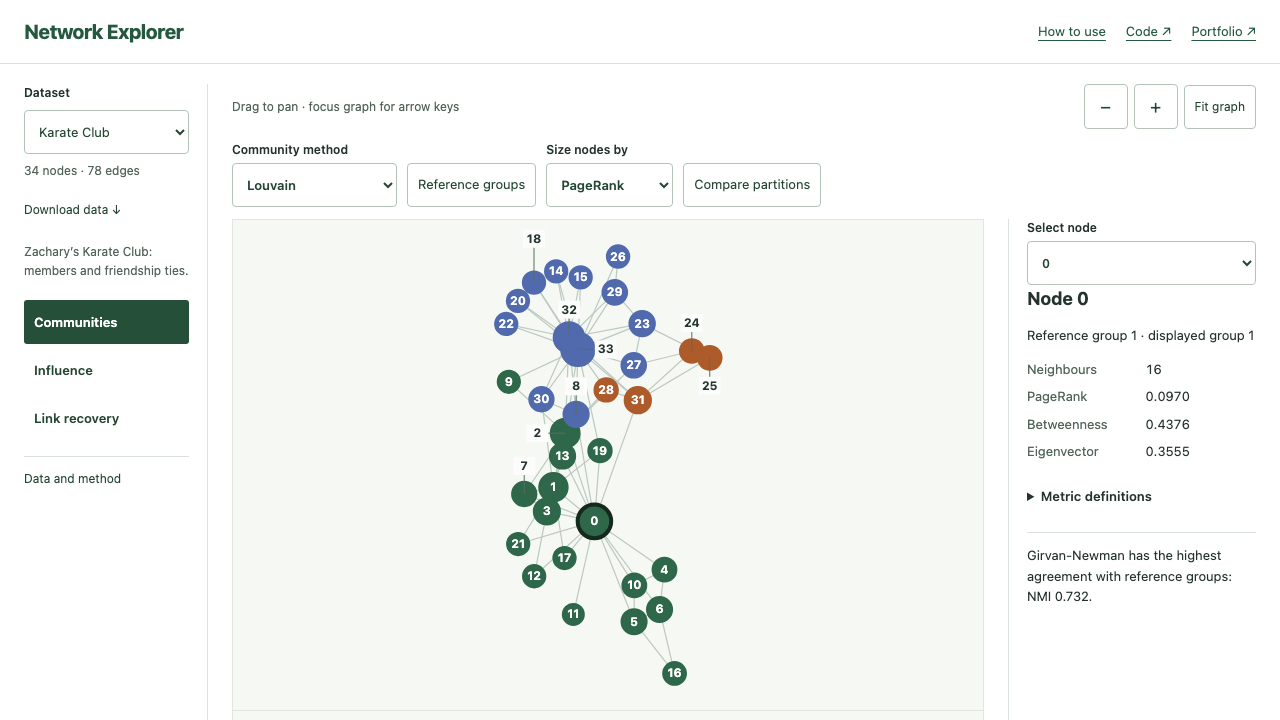
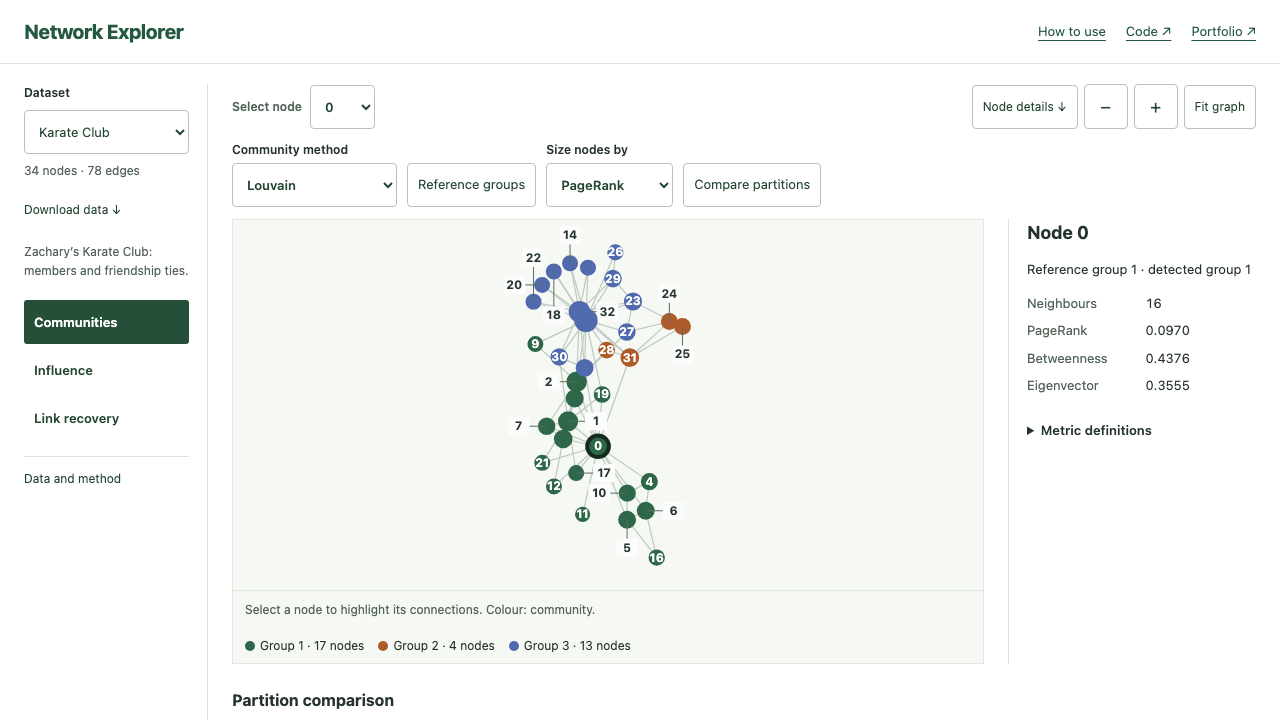
Clarify graph inspection and partition differences (#7)

diff --git a/script.js b/script.js
@@ -28,7 +28,7 @@ let bundle,
   strategy = "PageRank",
   frame = 0;
 let compare = false, comparisonMethod = "Reference groups", viewport = { zoom: 1, x: 0, y: 0 };
-let suppressClick = false;
+let suppressClick = false, showDifferences = false, disagreements = new Set();
 function validate(value) {
   if (
     value.schemaVersion !== 1 ||
@@ -61,7 +61,7 @@ function graph(partition, active = null, seeds = [], split = null, colourMap = n
   const small = matchMedia("(max-width: 999px)").matches;
   const available = $("#workspace").clientWidth;
   const width = Math.max(280, comparison && !small ? (available - 16) / 2 : available - (small ? 0 : 272));
-  const height = small ? 350 : Math.max(420, innerHeight - 230), padding = 36;
+  const height = small ? 350 : Math.max(280, innerHeight - (comparison ? 440 : view === "influence" ? 380 : view === "links" ? 300 : 350)), padding = 32;
   const xs = data.nodes.map(n => n.x), ys = data.nodes.map(n => n.y);
   const minX = Math.min(...xs), maxX = Math.max(...xs), minY = Math.min(...ys), maxY = Math.max(...ys);
   const scale = Math.min((width-2*padding)/Math.max(.01,maxX-minX),(height-2*padding)/Math.max(.01,maxY-minY));
@@ -97,24 +97,25 @@ function graph(partition, active = null, seeds = [], split = null, colourMap = n
   }
   const coloursFor = group => colors[(colourMap?.[group] ?? group) % colors.length];
   const nodes = data.nodes.map((n) => {
-    const p = pos(n), group = partition[n.id] ?? n.reference, r = 8 + Math.sqrt(n[size] / max) * 9;
+    const p = pos(n), group = partition[n.id] ?? n.reference, r = 5 + Math.sqrt(n[size] / max) * 6;
     const label = labels.get(n.id), [dx,dy] = label || [0,0];
     const colour = coloursFor(group);
     const moved = dx !== 0 || dy !== 0;
     const on = active === null || active.has(n.id), related = n.id === selected || neighbours.has(n.id);
-    return `<g class="node" role="button" tabindex="0" data-node="${n.id}" data-pane="${pane}" data-related="${related}" aria-label="Inspect node ${n.id}, group ${group + 1}, ${n.degree_count} neighbours" aria-pressed="${n.id === selected}" opacity="${emphasize && !related ? .35 : 1}"><circle cx="${p.x}" cy="${p.y}" r="${r}" fill="${on ? colour : "#fff"}" stroke="${n.id === selected ? "#152a1c" : colour}" stroke-width="${n.id === selected ? 4 : 1.5}"/>${label && moved ? `<line x1="${p.x}" y1="${p.y}" x2="${p.x+dx}" y2="${p.y+dy}" stroke="#586d60"/><rect x="${p.x+dx-11}" y="${p.y+dy-9}" width="22" height="18" fill="#fbfcfb"/>` : ""}${label ? `<text x="${p.x+dx}" y="${p.y+dy + 4}" text-anchor="middle" font-size="12" font-weight="700" fill="${on && !moved ? "#fff" : "#24362d"}">${n.id}</text>` : ""}${seeds.includes(n.id) ? `<circle cx="${p.x}" cy="${p.y}" r="${r + 5}" fill="none" stroke="#1d3927" stroke-dasharray="3 2"/>` : ""}</g>`;
+    return `<g class="node" role="button" tabindex="${n.id === selected ? 0 : -1}" data-node="${n.id}" data-pane="${pane}" data-related="${related}" data-disagreement="${comparison && disagreements.has(n.id)}" aria-label="Inspect node ${n.id}, group ${group + 1}, ${n.degree_count} neighbours" aria-pressed="${n.id === selected}" opacity="${comparison && showDifferences && n.id !== selected && !disagreements.has(n.id) ? .25 : emphasize && !related ? .35 : 1}"><circle class="node-body" cx="${p.x}" cy="${p.y}" r="${r}" fill="${on ? colour : "#fff"}" stroke="${n.id === selected ? "#152a1c" : colour}" stroke-width="${n.id === selected ? 4 : 1.5}"/>${comparison && showDifferences && disagreements.has(n.id) ? `<circle cx="${p.x}" cy="${p.y}" r="${r+4}" fill="none" stroke="#172d20" stroke-width="2" stroke-dasharray="3 2" pointer-events="none"/>` : ""}<circle class="node-hit" cx="${p.x}" cy="${p.y}" r="${Math.max(12,r)}" fill="transparent" stroke="none"/>${label && moved ? `<line x1="${p.x}" y1="${p.y}" x2="${p.x+dx}" y2="${p.y+dy}" stroke="#586d60"/><rect x="${p.x+dx-11}" y="${p.y+dy-9}" width="22" height="18" fill="#fbfcfb"/>` : ""}${label ? `<text x="${p.x+dx}" y="${p.y+dy + 4}" text-anchor="middle" font-size="12" font-weight="700" fill="${on && !moved ? "#fff" : "#24362d"}">${n.id}</text>` : ""}${seeds.includes(n.id) ? `<circle cx="${p.x}" cy="${p.y}" r="${r + 5}" fill="none" stroke="#1d3927" stroke-dasharray="3 2"/>` : ""}</g>`;
   }).join("");
   const caption = split ? `${revealLinks ? "Dashed orange: withheld links." : "Withheld links are hidden."} Dotted blue: a pair with no recorded link.` : active ? "Filled nodes are active; dashed rings identify seeds." : highlight ? `Node ${selected} and its neighbours are highlighted. Colour: community.` : "Select a node to highlight its connections. Colour: community.";
   const transform = `translate(${width/2+viewport.x*width} ${height/2+viewport.y*height}) scale(${viewport.zoom}) translate(${-width/2} ${-height/2})`;
-  return `<figure class="plot"><svg class="graph-canvas" viewBox="0 0 ${width} ${height}" data-pane="${pane}" data-viewport="${JSON.stringify(viewport).replaceAll('"','&quot;')}" tabindex="0" aria-label="${data.name} graph, select a numbered node to inspect its position. Arrow keys pan; plus and minus zoom; Home fits the graph." role="group"><g class="graph-geometry" transform="${transform}">${edges}${nodes}</g></svg><figcaption>${caption}</figcaption></figure>`;
+  return `<figure class="plot"><svg class="graph-canvas" style="height:${height}px" viewBox="0 0 ${width} ${height}" data-pane="${pane}" data-viewport="${JSON.stringify(viewport).replaceAll('"','&quot;')}" tabindex="-1" aria-label="${data.name} graph. Arrow keys move between nodes; Shift and arrow keys pan; plus and minus zoom; Home fits the graph." role="group"><g class="graph-geometry" transform="${transform}">${edges}${nodes}</g></svg><figcaption>${caption}</figcaption>${view === "groups" ? groupLegend(partition,colourMap) : ""}</figure>`;
 
+}
+function groupLegend(partition, colourMap) {
+  const groups=[...new Set(Object.values(partition))].sort((a,b)=>a-b);
+  return `<div class="group-legend" aria-label="Community colour key">${groups.map(group=>`<span><i style="background:${colors[(colourMap?.[group] ?? group)%colors.length]}"></i>Group ${group+1} · ${Object.values(partition).filter(value=>value===group).length} nodes</span>`).join("")}</div>`;
 }
 function details(partition) {
   const n = data.nodes.find((n) => n.id === selected) ?? data.nodes[0];
-  return `<label>Select node<select id="node-picker">${options(
-    data.nodes.map((n) => n.id),
-    selected,
-  )}</select></label><h2>Node ${n.id}</h2><p>Reference group ${n.reference + 1} · ${view === "groups" ? `displayed group ${(partition[n.id] ?? n.reference) + 1}` : view === "links" ? "metrics below describe the original graph" : "inspect an activated node or a seed"}</p><dl><dt>Neighbours</dt><dd>${n.degree_count}</dd><dt>PageRank</dt><dd>${fmt(n.pagerank, 4)}</dd><dt>Betweenness</dt><dd>${fmt(n.betweenness, 4)}</dd><dt>Eigenvector</dt><dd>${fmt(n.eigenvector, 4)}</dd></dl><details><summary>Metric definitions</summary><p class="muted">Degree counts immediate neighbours. PageRank rewards links from well-connected nodes. Betweenness measures how often a node lies on shortest paths. </p></details>`;
+  return `<h2 id="node-details" tabindex="-1">Node ${n.id}</h2><p>Reference group ${n.reference + 1} · ${view === "groups" ? `detected group ${(partition[n.id] ?? n.reference) + 1}` : view === "links" ? "metrics below describe the original graph" : "inspect an activated node or a seed"}</p><dl><dt>Neighbours</dt><dd>${n.degree_count}</dd><dt>PageRank</dt><dd>${fmt(n.pagerank, 4)}</dd><dt>Betweenness</dt><dd>${fmt(n.betweenness, 4)}</dd><dt>Eigenvector</dt><dd>${fmt(n.eigenvector, 4)}</dd></dl><details><summary>Metric definitions</summary><p class="muted">Degree counts immediate neighbours. PageRank rewards links from well-connected nodes. Betweenness measures how often a node lies on shortest paths. </p></details>`;
 }
 function render() {
   if (!data) return;
@@ -136,8 +137,9 @@ function render() {
     const best = [...data.communities].sort((a, b) => b.nmi - a.nmi)[0];
     const other = comparisonMethod === "Reference groups" ? Object.fromEntries(data.nodes.map(n=>[n.id,n.reference])) : data.communities.find(c=>c.method===comparisonMethod).partition;
     const colourMap = alignPartitionColours(partition, other);
+    disagreements = new Set(data.nodes.filter(n => partition[n.id] !== colourMap[other[n.id]]).map(n=>n.id));
     const controls = `<div class="controls"><label>Community method<select id="method" ${reference ? "disabled" : ""}>${options(data.communities.map((c) => c.method), method)}</select></label><button id="reference" aria-pressed="${reference}">Reference groups</button><label>Size nodes by<select id="size">${[["pagerank","PageRank"],["degree","Connections"],["betweenness","Betweenness"]].map(([v,label]) => `<option value="${v}" ${size === v ? "selected" : ""}>${label}</option>`).join("")}</select></label><button id="compare" aria-pressed="${compare}">Compare partitions</button></div>`;
-    content = `${controls}${compare ? `<div class="partition-panes"><section><h2>${reference ? "Reference groups" : method}</h2>${graph(partition)}</section><section><label>Compare with<select id="compare-method">${options(["Reference groups",...data.communities.map(c=>c.method)],comparisonMethod)}</select></label>${graph(other,null,[],null,colourMap,"comparison")}</section></div><aside class="shared-inspector">${details(partition)}<p>Colours are aligned by shared members. Group labels and scores are unchanged.</p></aside>` : `<div class="experiment"><section>${graph(partition)}${highlight ? `<button class="clear-selection" id="show-all">Show all connections</button>` : ""}</section><aside>${details(partition)}<p class="observation">${best.method} has the highest agreement with reference groups: NMI ${fmt(best.nmi)}.</p></aside></div>`}<h3>Partition comparison</h3>${table(
+    content = `${controls}${compare ? `<div class="comparison-reading"><span>${new Set(Object.values(partition)).size} groups vs ${new Set(Object.values(other)).size} · ${disagreements.size} nodes differ after matching group colours.</span><button id="differences" aria-pressed="${showDifferences}">Highlight differences</button></div>` : ""}${compare ? `<div class="partition-panes"><section><h2>${reference ? "Reference groups" : method}</h2>${graph(partition)}</section><section><label>Compare with<select id="compare-method">${options(["Reference groups",...data.communities.map(c=>c.method)],comparisonMethod)}</select></label>${graph(other,null,[],null,colourMap,"comparison")}</section></div><aside class="shared-inspector">${details(partition)}<p>Colours are aligned by shared members. Group labels and scores are unchanged.</p></aside>` : `<div class="experiment"><section>${graph(partition)}${highlight ? `<button class="clear-selection" id="show-all">Show all connections</button>` : ""}</section><aside>${details(partition)}</aside></div>`}<h3>Partition comparison</h3><p class="observation">${best.method} has the highest agreement with reference groups: NMI ${fmt(best.nmi)}. Agreement and modularity measure different things.</p>${table(
       ["Method", "Groups", "Modularity", "NMI ↑", "Adjusted Rand ↑"],
       data.communities.map((c) => [
         `<span ${c.method === method && !reference ? 'class="chosen-method"' : ""}>${c.method}${c.method === method && !reference ? " · selected" : ""}</span>`,
@@ -210,7 +212,9 @@ function render() {
       ]),
     )}</details>`;
   }
-  $("#workspace").innerHTML = `<div class="viewport-controls"><span>Drag to pan · focus graph for arrow keys</span><button id="zoom-out" aria-label="Zoom out">−</button><button id="zoom-in" aria-label="Zoom in">+</button><button id="fit-graph">Fit graph</button></div>` + content;
+  $("#workspace").innerHTML = `<div class="viewport-controls"><label class="node-navigation"><span>Select node</span><select id="node-picker">${options(data.nodes.map(n=>n.id),selected)}</select></label><button id="inspect-selected">Node details ↓</button><button id="zoom-out" aria-label="Zoom out">−</button><button id="zoom-in" aria-label="Zoom in">+</button><button id="fit-graph">Fit graph</button></div>` + content;
+  $("#inspect-selected").onclick=()=>{ $("#node-details").focus(); $("#node-details").scrollIntoView({block:"nearest"}); };
+  if($("#differences")) $("#differences").onclick=()=>{showDifferences=!showDifferences;render();$("#differences").focus({preventScroll:true});};
   document.querySelectorAll("[data-node]").forEach((el) => {
     const choose = () => {
       if(suppressClick) return;
@@ -222,6 +226,23 @@ function render() {
     };
     el.onclick = choose;
     el.onkeydown = (e) => {
+      if (!e.shiftKey && ["ArrowLeft","ArrowRight","ArrowUp","ArrowDown"].includes(e.key)) {
+        e.preventDefault(); e.stopPropagation();
+        const origin=data.nodes.find(n=>n.id===Number(el.dataset.node));
+        const horizontal=["ArrowLeft","ArrowRight"].includes(e.key), sign=["ArrowLeft","ArrowUp"].includes(e.key)?-1:1;
+        const candidates=data.nodes.filter(n=>n.id!==origin.id).map(n=>{
+          const dx=n.x-origin.x,dy=n.y-origin.y,forward=(horizontal?dx:dy)*sign,cross=horizontal?dy:dx;
+          return {n,forward,distance:Math.hypot(dx,dy)+Math.abs(cross)*2};
+        }).filter(n=>n.forward>0).sort((a,b)=>a.distance-b.distance);
+        if(candidates.length) {
+          const pane=el.dataset.pane;
+          selected=candidates[0].n.id;highlight=true;render();
+          const target=document.querySelector(`[data-node="${selected}"][data-pane="${pane}"]`);
+          keepNodeVisible(target);
+          target?.focus({preventScroll:true});
+        }
+        return;
+      }
       if (e.key === "Enter" || e.key === " ") {
         e.preventDefault();
         choose();
@@ -254,6 +275,7 @@ function render() {
       el.onchange = () => {
         update(el.value);
         render();
+        if (id === "node-picker") keepNodeVisible(document.querySelector(`.graph-canvas[data-pane="primary"] [data-node="${selected}"]`));
         $(`#${id}`).focus();
       };
   }
@@ -354,6 +376,15 @@ function applyViewport() {
     svg.querySelector(".graph-geometry").setAttribute("transform",`translate(${width/2+viewport.x*width} ${height/2+viewport.y*height}) scale(${viewport.zoom}) translate(${-width/2} ${-height/2})`);
   });
 }
+function keepNodeVisible(node) {
+  if (!node) return;
+  const canvas = node.closest(".graph-canvas").getBoundingClientRect();
+  const marker = node.querySelector(".node-body").getBoundingClientRect();
+  const shift = (start, end, low, high) => start < low + 20 ? low + 20 - start : end > high - 20 ? high - 20 - end : 0;
+  viewport.x += shift(marker.left, marker.right, canvas.left, canvas.right) / canvas.width;
+  viewport.y += shift(marker.top, marker.bottom, canvas.top, canvas.bottom) / canvas.height;
+  applyViewport();
+}
 function zoom(factor) { viewport.zoom=Math.max(.5,Math.min(4,viewport.zoom*factor)); applyViewport(); }
 function wireViewport() {
   $("#zoom-in").onclick=()=>zoom(1.25);
@@ -362,7 +393,7 @@ function wireViewport() {
   document.querySelectorAll(".graph-canvas").forEach(svg=>{
     let drag=null;
     svg.onkeydown=e=>{
-      if(e.target!==svg) return;
+      if(e.target!==svg && !e.shiftKey && !["Home","+","=","-"].includes(e.key)) return;
       if(!["ArrowLeft","ArrowRight","ArrowUp","ArrowDown","+","=","-","Home"].includes(e.key)) return;
       e.preventDefault();
       if(e.key==="Home") viewport={zoom:1,x:0,y:0};

diff --git a/tests/browser/explorer.spec.js b/tests/browser/explorer.spec.js
@@ -184,3 +184,39 @@ test('partition comparison synchronizes coordinates, pan, selection and keyboard
   const waiting=page.waitForEvent('download');await page.getByRole('button',{name:'Download data'}).click();
   const d=await waiting;expect(JSON.parse(fs.readFileSync(await d.path(),'utf8')).experiments[0]).toEqual(bundle.experiments[0]);
 });
+
+
+test('one graph Tab stop supports directional inspection and explicit partition differences',async({page})=>{
+ await page.goto('/');await page.locator('.node[tabindex="0"]').waitFor();
+ await expect(page.locator('.node[tabindex="0"]')).toHaveCount(1);
+ await page.locator('.node[tabindex="0"]').focus();await page.keyboard.press('ArrowRight');
+ await expect(page.getByRole('combobox',{name:'Select node',exact:true})).not.toHaveValue('0');
+ await expect(page.locator('.node[tabindex="0"]')).toBeFocused();
+ const selected=await page.getByRole('combobox',{name:'Select node',exact:true}).inputValue();
+ await page.getByRole('button',{name:'Compare partitions',exact:true}).click();
+ await expect(page.locator('.node[tabindex="0"]')).toHaveCount(2);
+ await page.getByRole('button',{name:'Highlight differences',exact:true}).click();
+ const primary=page.locator('.graph-canvas[data-pane="primary"]');
+ const expected=await primary.locator('[data-disagreement="true"]').count();
+ await expect(page.locator('.comparison-reading')).toContainText(`${expected} nodes differ`);
+ await expect(page.getByRole('combobox',{name:'Select node',exact:true})).toHaveValue(selected);
+ await page.getByRole('button',{name:'Node details'}).click();
+ await expect(page.getByRole('heading',{name:`Node ${selected}`,exact:true})).toBeFocused();
+ await expect(page.locator('.group-legend').first()).toContainText('Group 1');
+});
+
+test('desktop influence action stays beside its visible graph',async({page})=>{
+ await page.setViewportSize({width:1280,height:720});await page.goto('/');
+ await page.getByRole('button',{name:'Influence',exact:true}).click();
+ await expect(page.getByRole('button',{name:'Next wave'})).toBeInViewport();
+});
+
+
+test('keyboard selection pans only enough to keep a zoomed node visible',async({page})=>{
+ await page.goto('/');const canvas=page.locator('.graph-canvas');await canvas.waitFor();
+ for(let i=0;i<4;i++) await page.getByRole('button',{name:'Zoom in',exact:true}).click();
+ await page.getByRole('combobox',{name:'Select node',exact:true}).selectOption('14');
+ const box=await canvas.boundingBox(),marker=await page.locator('[data-node="14"] .node-body').boundingBox();
+ expect(marker.x).toBeGreaterThanOrEqual(box.x);expect(marker.x+marker.width).toBeLessThanOrEqual(box.x+box.width);
+ expect(marker.y).toBeGreaterThanOrEqual(box.y);expect(marker.y+marker.height).toBeLessThanOrEqual(box.y+box.height);
+});

diff --git a/styles.css b/styles.css
@@ -46,12 +46,12 @@ aside p { font-size:13px; }
 .experiment aside select { width:100%; }
 figure { margin:0; }
 .plot { background:#f5f8f3; border:1px solid #e1e7df; overflow:hidden; }
-.plot svg { display:block; width:100%; height:max(420px,calc(100svh - 230px)); touch-action:pan-y; cursor:grab; }
+.plot svg { display:block; width:100%; height:auto; touch-action:pan-y; cursor:grab; }
 .plot svg:active { cursor:grabbing; }
 .plot figcaption { padding:10px 12px; font-size:12px; border-top:1px solid #dfe7db; color:#526453; }
 .plot + .controls { border-bottom:1px solid var(--line); padding:12px 0; margin-bottom:0; }
 .node { cursor:pointer; outline:none; }
-.node:focus circle,.node:hover circle { stroke:#0f271b; stroke-width:4px; }
+.node:focus .node-body,.node:hover .node-body { stroke:#0f271b; stroke-width:4px; }
 .node:focus,.node:hover { opacity:1; }
 .node text { pointer-events:none; }
 .partition-panes { display:grid; grid-template-columns:1fr 1fr; gap:16px; }
@@ -105,7 +105,7 @@ footer { border-top:1px solid var(--line); margin:24px 0; padding-top:14px; font
  #method-link { display:none; }
  .experiment { grid-template-columns:1fr; gap:12px; }
  .experiment>aside { border:0; padding:12px 0; }
- .plot svg { height:350px; }
+ .plot svg { min-height:350px; }
  .partition-panes { grid-template-columns:1fr; }
  .shared-inspector { grid-template-columns:1fr 1fr; }
 }
@@ -128,3 +128,22 @@ footer { border-top:1px solid var(--line); margin:24px 0; padding-top:14px; font
  .bar-row { grid-template-columns:100px 1fr 64px; gap:8px; font-size:12px; }
 }
 @media(prefers-reduced-motion:reduce) { * { scroll-behavior:auto!important; } }
+
+.node-navigation { display:flex; flex-direction:row; align-items:center; gap:8px; margin-right:auto; }
+.node-navigation select { min-width:65px; font-size:13px; }
+.viewport-controls .node-navigation span { margin:0; }
+.group-legend { display:flex; flex-wrap:wrap; gap:6px 14px; padding:8px 12px; font-size:12px; }
+.group-legend span { display:inline-flex; align-items:center; gap:5px; }
+.group-legend i { width:10px; height:10px; border-radius:50%; }
+.comparison-reading { display:flex; flex-wrap:wrap; align-items:center; justify-content:space-between; gap:8px; font-size:13px; margin:8px 0; }
+.comparison-reading button { font-size:12px; }
+.node-hit { stroke:none!important; }
+#node-details:focus { outline-offset:4px; }
+@media(max-width:600px) {
+ .viewport-controls { flex-wrap:wrap; }
+ .node-navigation { gap:4px; }
+ .node-navigation span { position:absolute; width:1px; height:1px; overflow:hidden; clip:rect(0,0,0,0); }
+ #inspect-selected { padding-inline:6px; }
+ .viewport-controls button { flex-shrink:0; }
+ .comparison-reading { align-items:start; }
+}

diff --git a/index.html b/index.html
@@ -55,7 +55,7 @@
 <p>Each node is a member and each line is a recorded friendship. Colours show a community assignment. Selecting a node keeps its immediate neighbourhood in view.</p>
 <ol class="guide-steps">
 <li><strong>Select a member.</strong> Click a numbered node or use Select node. Compare its connections with the different importance measures.</li>
-<li><strong>Compare groups.</strong> Choose a community method and use Compare partitions to place it beside reference groups or another method. Zoom and selection stay synchronized; Fit graph restores the view.</li>
+<li><strong>Compare groups.</strong> Choose a community method and use Compare partitions to place it beside reference groups or another method. Zoom and selection stay synchronized; Fit graph restores the view. On a focused node, arrow keys move between nodes; Shift + arrow keys pan.</li>
 <li><strong>Try a harder graph.</strong> Switch from strongly to weakly separated groups. Check whether the method still agrees with the known groups.</li>
 </ol>
 <p>Influence replays simulated spread from chosen seeds. Link recovery hides real connections and compares methods at finding them again. Its graph shows one saved split; the scores cover twenty.</p>

diff --git a/README.md b/README.md
@@ -8,12 +8,12 @@
 
 ## Walkthrough
 
-1. Use **Compare partitions** to inspect the Karate Club reference groups beside a community algorithm. Both panes share coordinates, pan/zoom and node selection.
+1. Use **Compare partitions** to inspect the Karate Club reference groups beside a community algorithm. Both panes share coordinates, pan/zoom and node selection. **Highlight differences** marks nodes assigned differently after matching group colours.
 2. Switch to strong or weak planted groups and inspect where agreement breaks down.
 3. Compare seed strategies across paired propagation trials. Step through a saved cascade.
 4. Examine missing-link recovery across 20 outer splits, including cases where a learned model loses.
 
-Every count, partition, metric, summary, replay and download comes from `data/experiments.json` (schema v1). Browser controls select bounded precomputed experiments; no analysis server is required. Keyboard node selection and persistent details accompany the graph.
+Every count, partition, metric, summary, replay and download comes from `data/experiments.json` (schema v1). Browser controls select bounded precomputed experiments; no analysis server is required. A labelled community key and persistent node details accompany the graph. Tab enters each graph once; arrow keys inspect nearby nodes, Shift + arrow keys pan, and the node selector reaches every node. Keyboard inspection keeps zoomed nodes in view.
 
 ## Data and protocol
 
